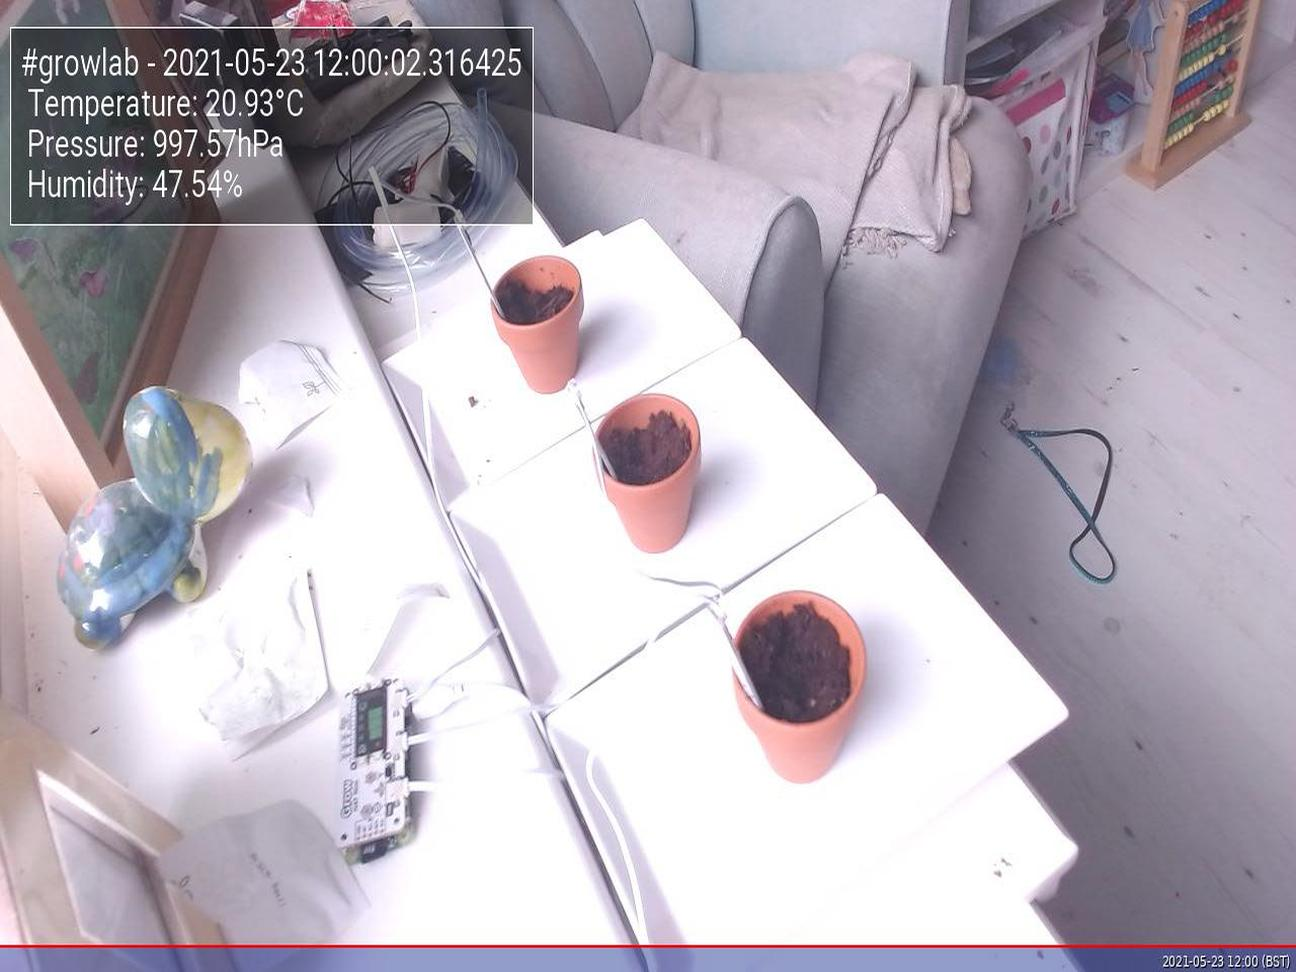
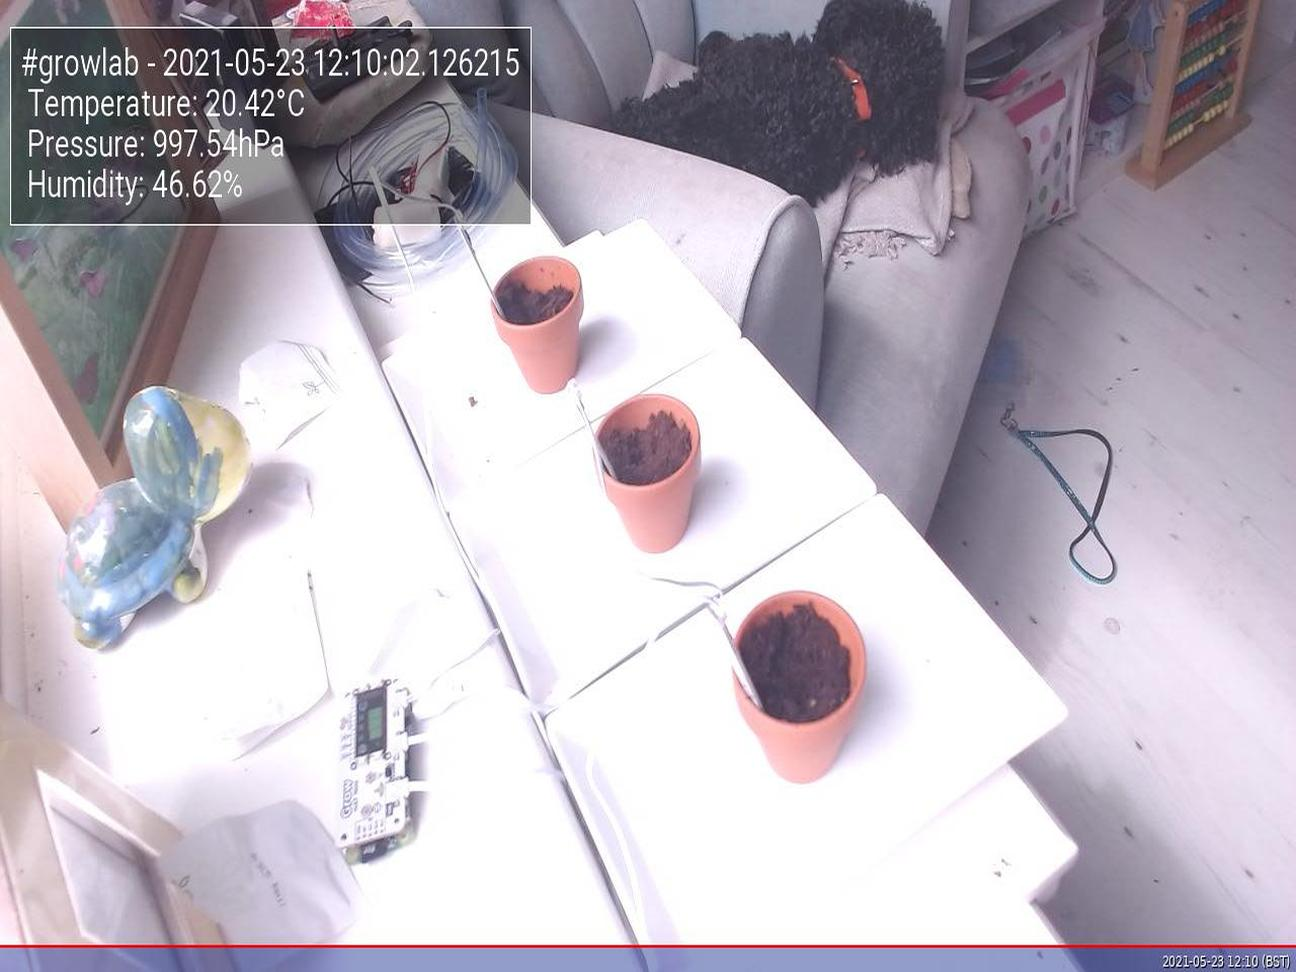
Update images at Sun 23 May 12:10:05 BST 2021

diff --git a/app/docs/index.html b/app/docs/index.html
@@ -47,19 +47,19 @@
                         <tbody>
                             <tr>
                                 <td>Time</td>
-                                <td>2021-05-23 12:00:02.316425</td>
+                                <td>2021-05-23 12:10:02.126215</td>
                             </tr>
                             <tr>
                                 <td>Temperature</td>
-                                <td>20.93°C</td>
+                                <td>20.42°C</td>
                             </tr>
                             <tr>
                                 <td>Humidity</td>
-                                <td>47.54%</td>
+                                <td>46.62%</td>
                             </tr>
                             <tr>
                                 <td>Pressure</td>
-                                <td>997.57hPa</td>
+                                <td>997.54hPa</td>
                             </tr>
                         </tbody>
                     </table>
@@ -67,7 +67,7 @@
 
                 <h5>Latest image</h5>
                 <div style="width: 85%;">
-                            <img class="figure-img img-fluid rounded" src="./preview.jpg?uid=1621767606.0821068">
+                            <img class="figure-img img-fluid rounded" src="./preview.jpg?uid=1621768205.883414">
                 </div>
             </div>
         </div>
